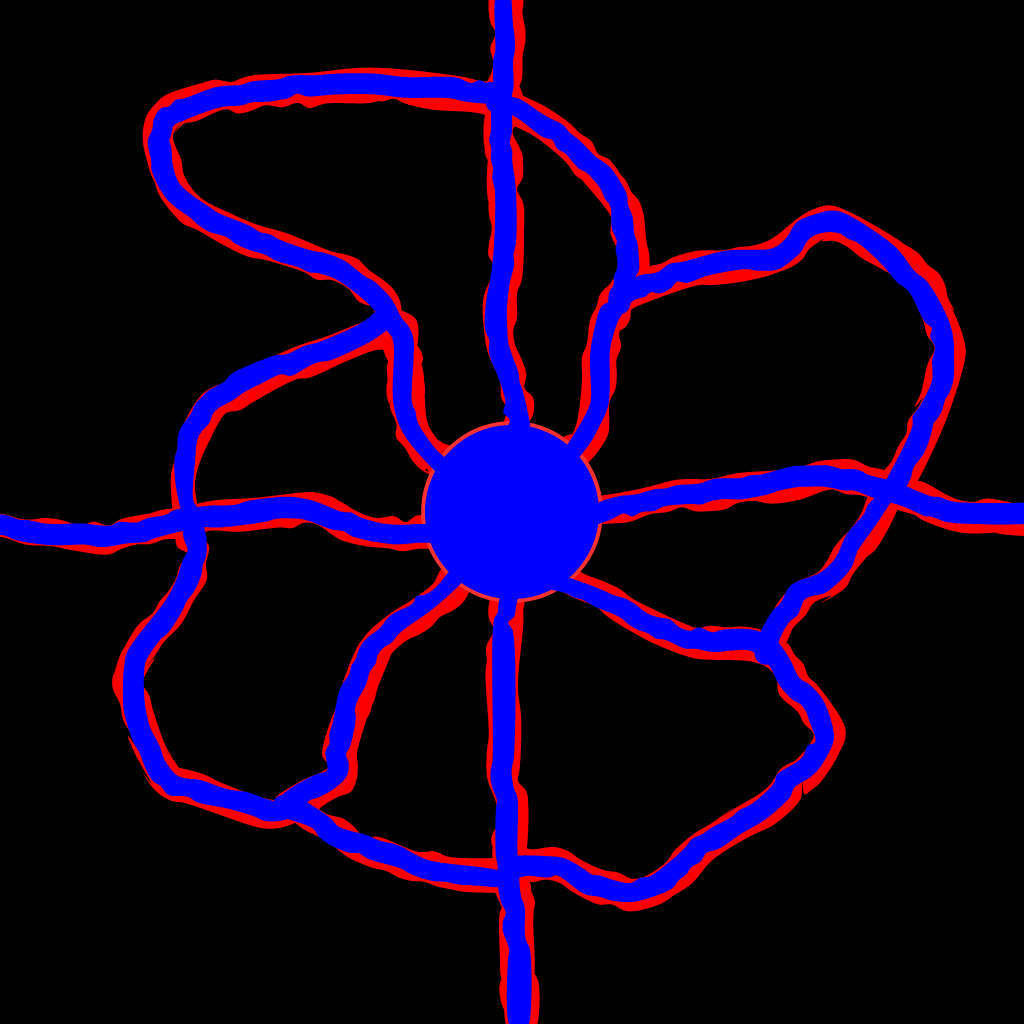
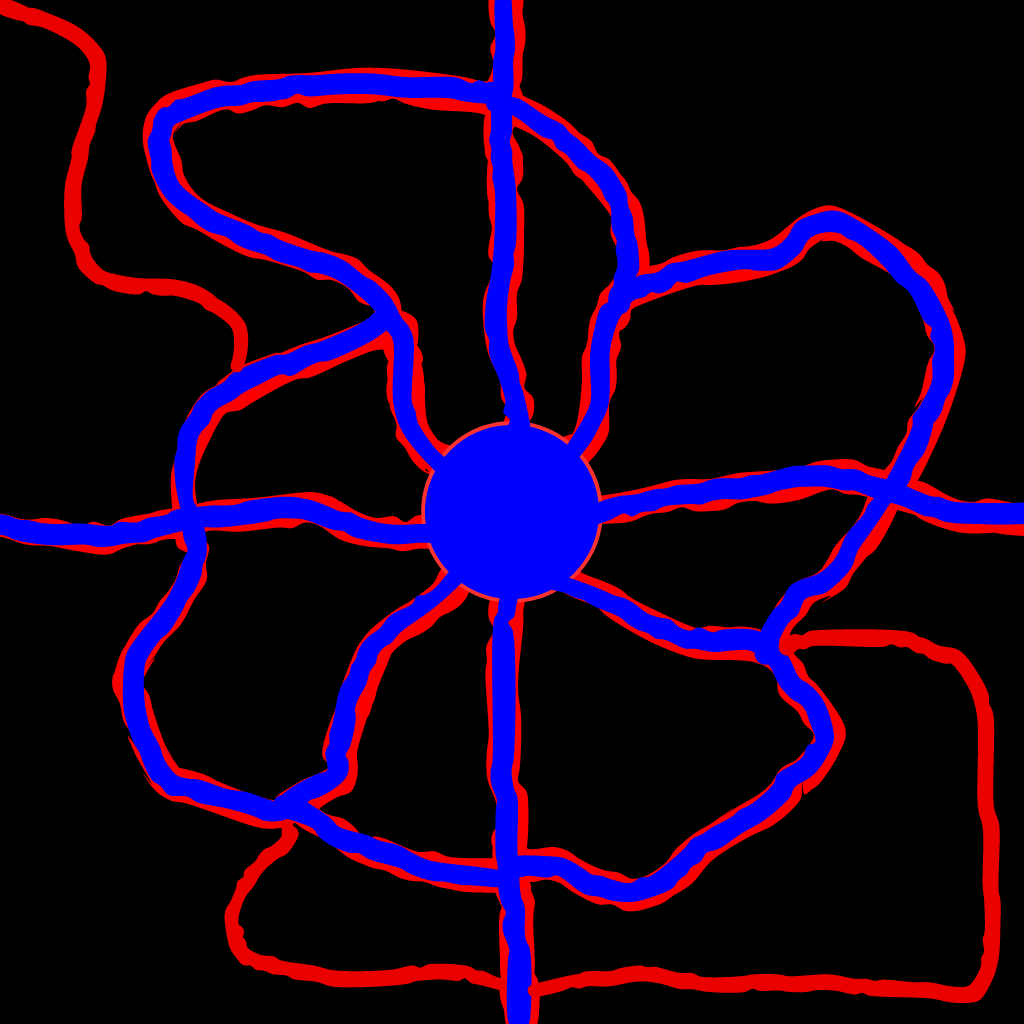
update height bek blend map tambahi jalan

Changed region(s): [[0.5312, 0.5938, 1.0, 1.0], [0.0, 0.0, 0.25, 0.375], [0.2188, 0.8125, 0.5, 0.9688]]

diff --git a/src/renderEngine/DisplayManager.java b/src/renderEngine/DisplayManager.java
@@ -10,8 +10,8 @@ import org.lwjgl.opengl.PixelFormat;
 
 public class DisplayManager {
 	
-	private static final int WIDTH = 1280;
-	private static final int HEIGHT = 720;
+	private static final int WIDTH = 1920;
+	private static final int HEIGHT = 1080;
 	private static final int FPS_CAP = 120;
 
 	private static long lastFrameTime;
